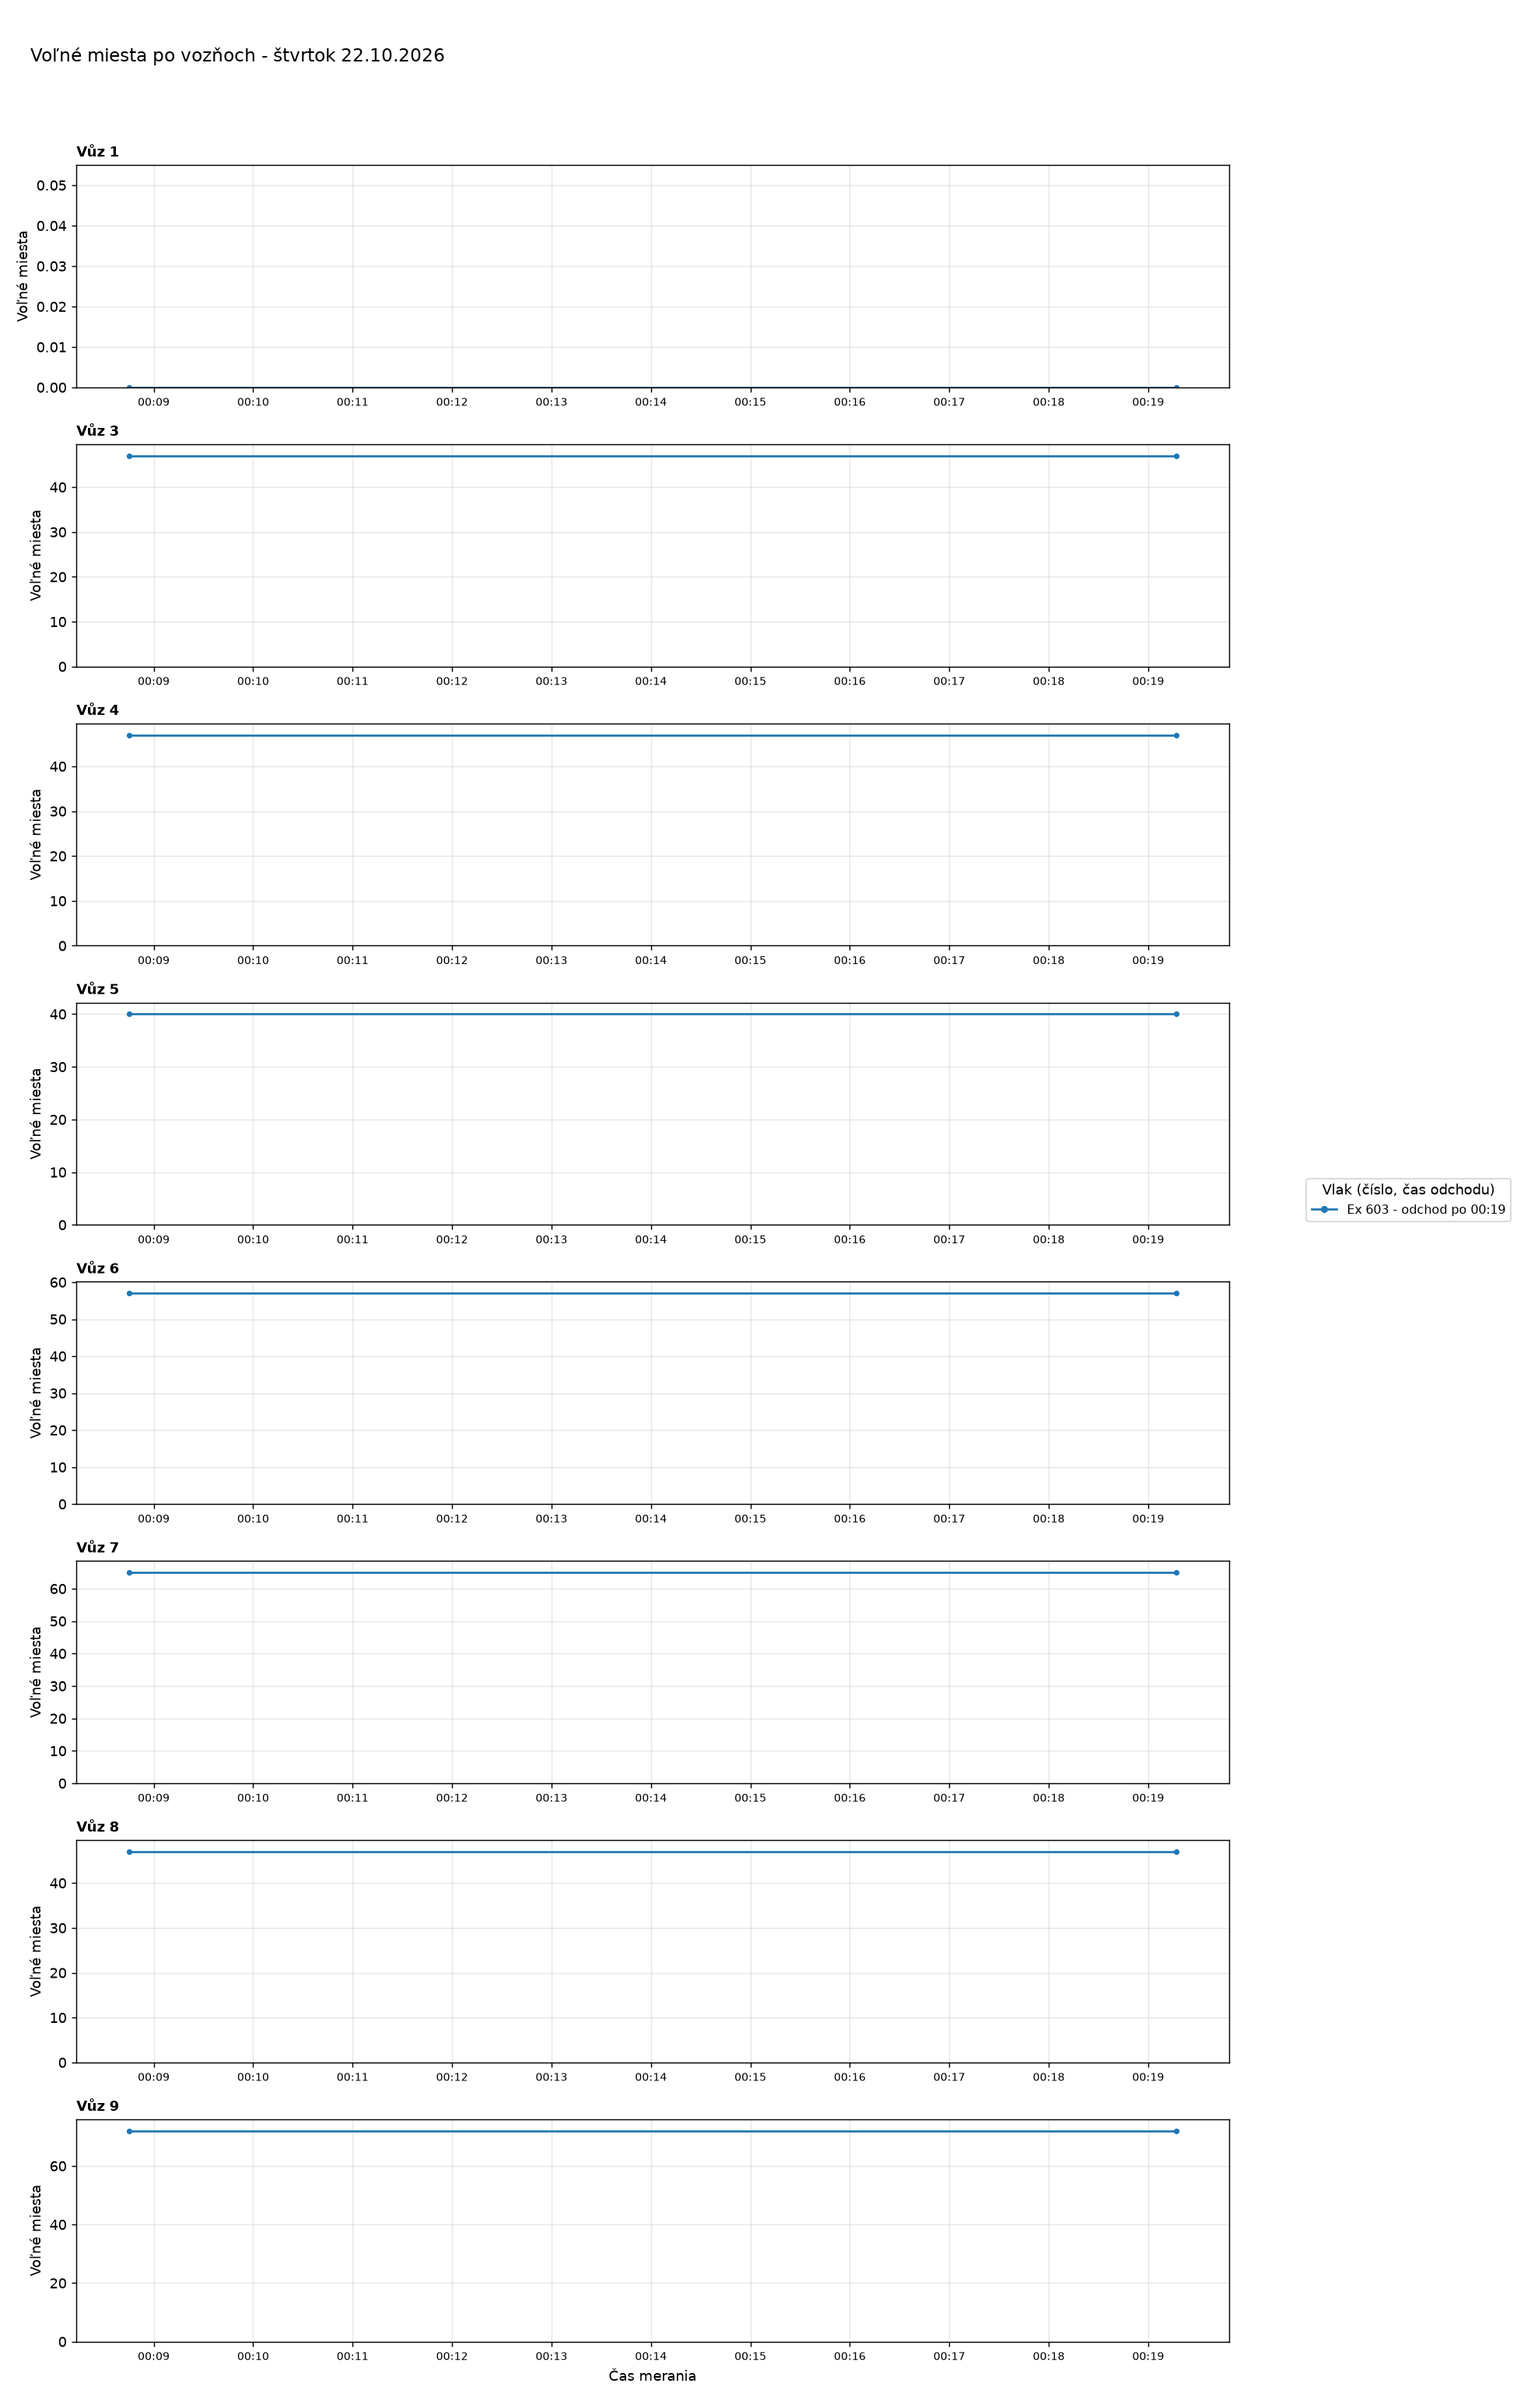
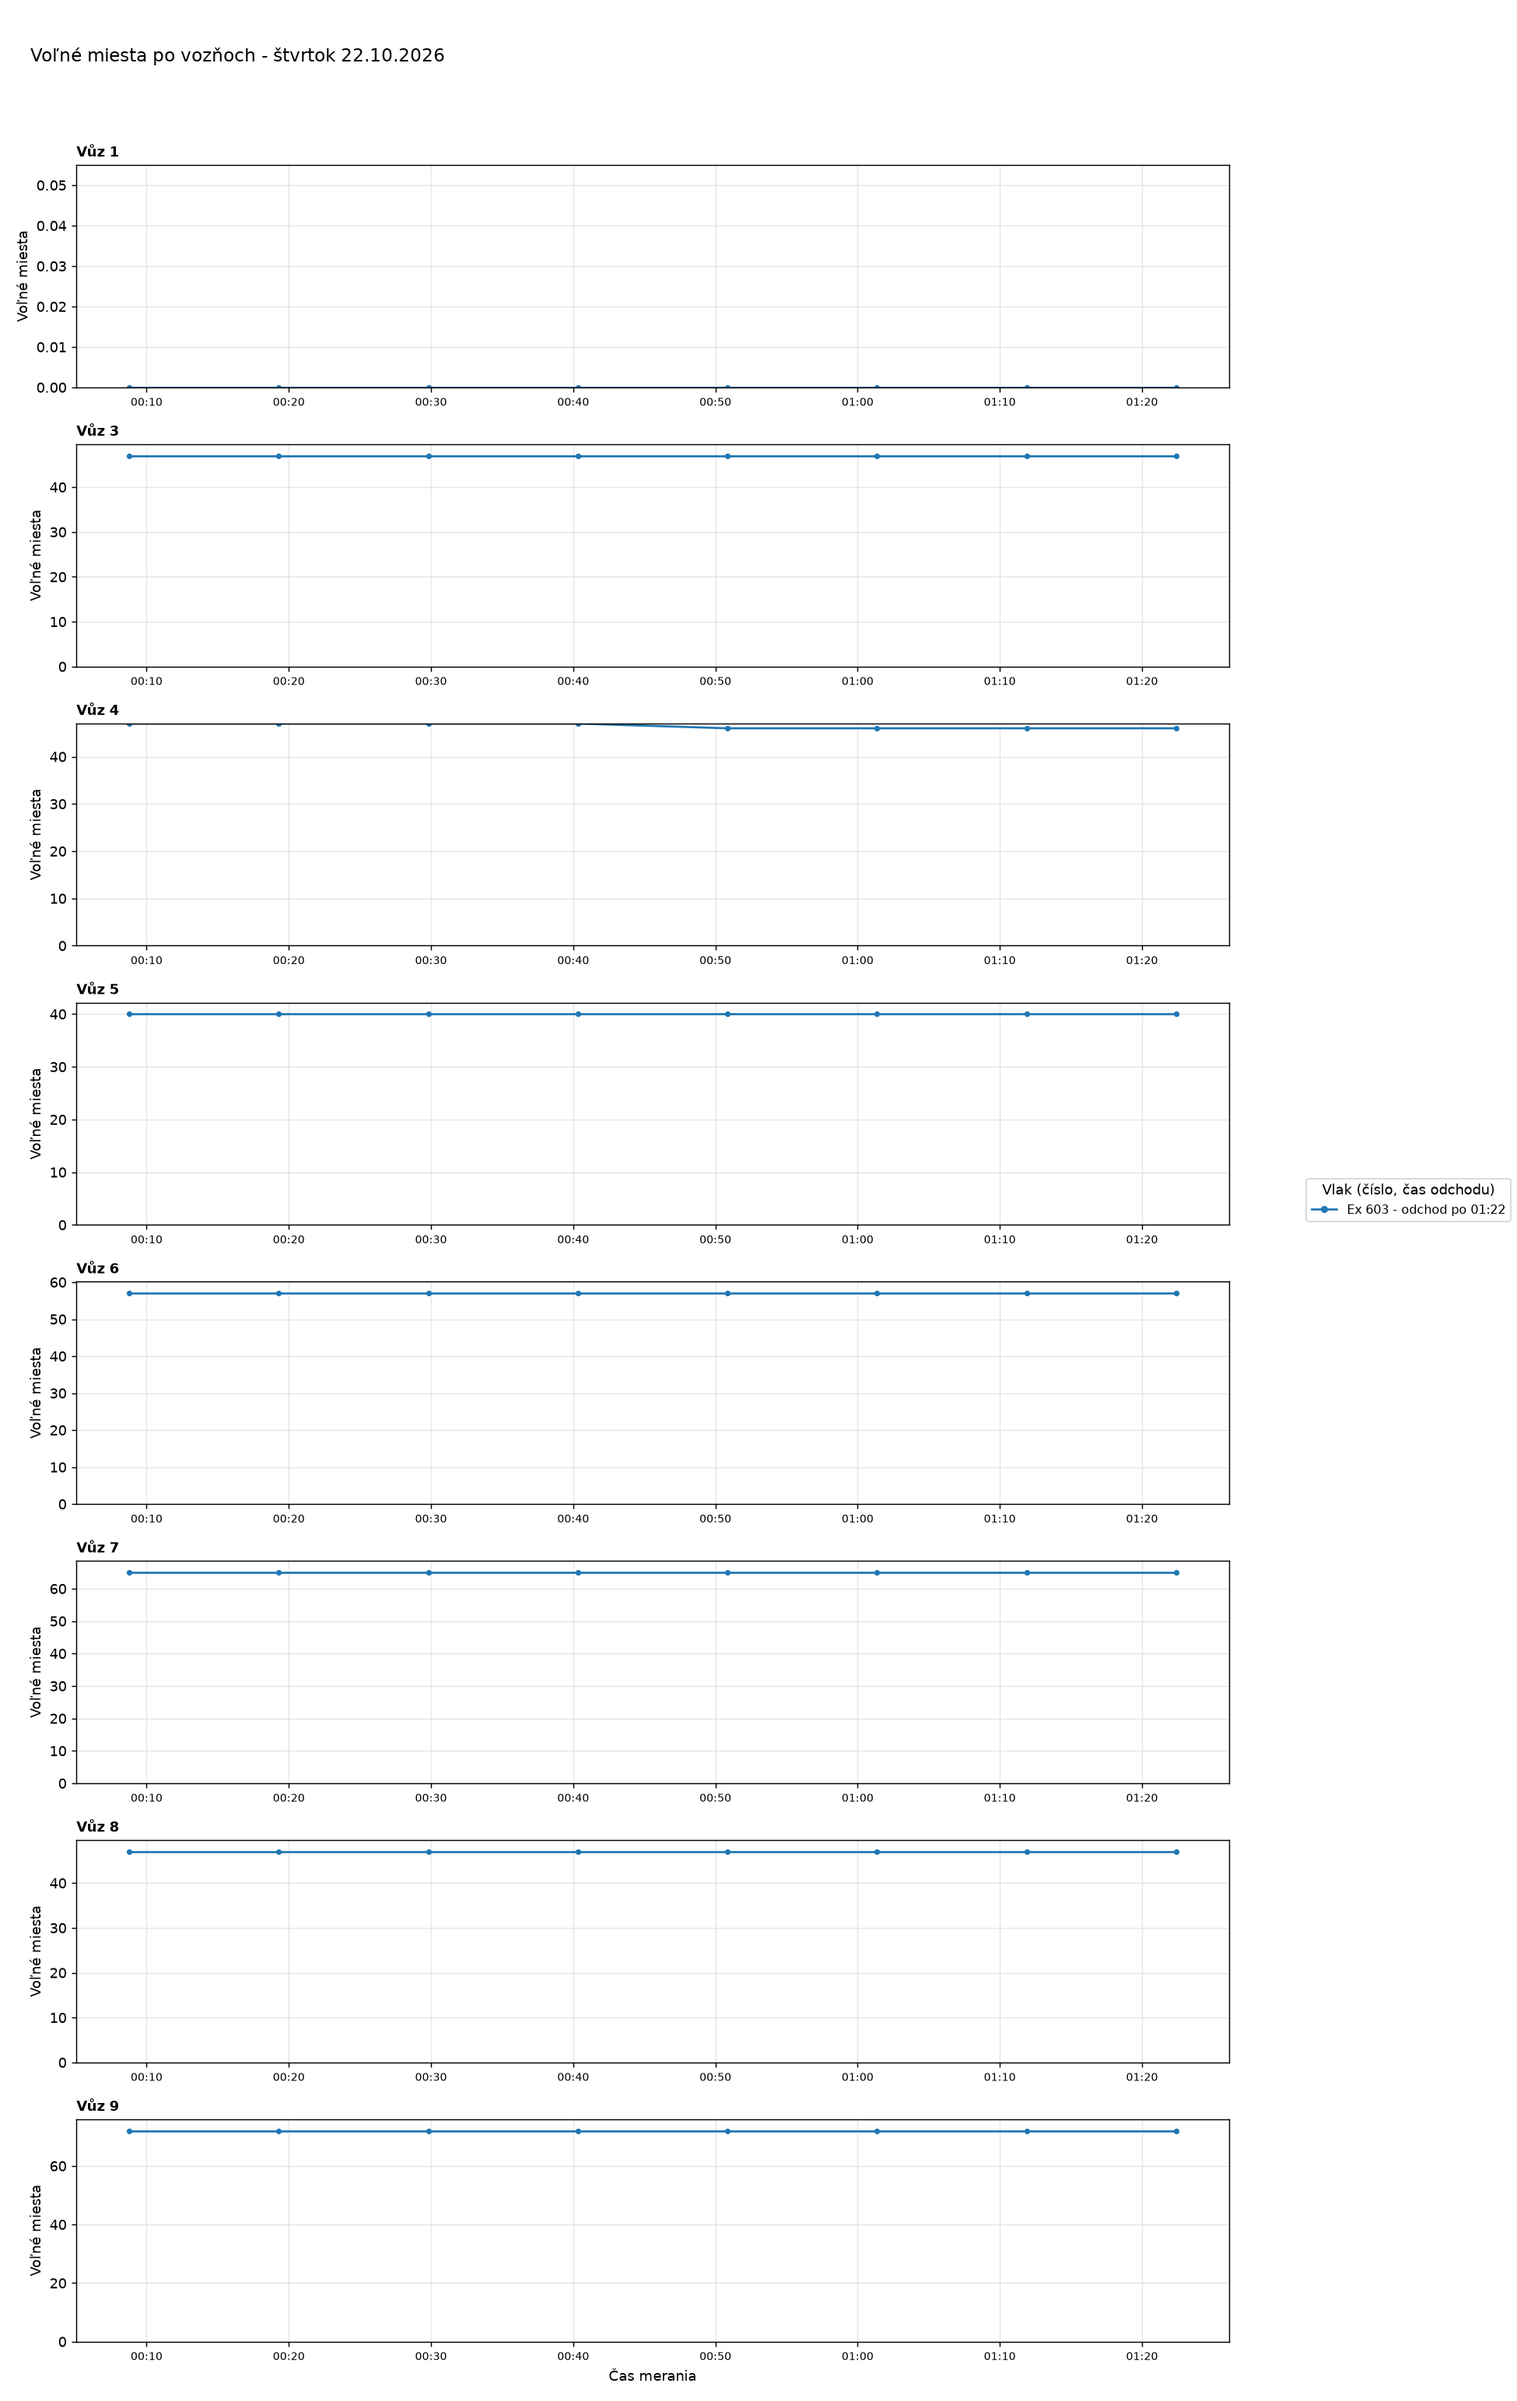
Aktualizácia grafov 2026-10-22 01:25

diff --git a/index.html b/index.html
@@ -30,7 +30,7 @@ img{display:block;width:100%;height:auto;background:#fff;border-radius:6px;
 <body>
 <main>
 <h1>Voľné miesta vo vlakoch</h1>
-<p class="muted">Posledné meranie: 22.10.2026 00:19 ·
+<p class="muted">Posledné meranie: 22.10.2026 01:22 ·
 <a href="data/obsadenost_data.csv">stiahnuť dáta (CSV)</a></p>
 
 <section class="card">
@@ -38,7 +38,7 @@ img{display:block;width:100%;height:auto;background:#fff;border-radius:6px;
 <div class="tablewrap"><table>
 <thead><tr><th>Deň</th><th>Meraní</th><th>Vlakov</th><th>Čas meraní</th></tr></thead>
 <tbody>
-<tr><td><a href="#d2026-10-22">štvrtok 22.10.2026</a></td><td>2</td><td>1</td><td>00:08-00:19</td></tr>
+<tr><td><a href="#d2026-10-22">štvrtok 22.10.2026</a></td><td>8</td><td>1</td><td>00:08-01:22</td></tr>
 <tr><td><a href="#d2026-10-21">streda 21.10.2026</a></td><td>96</td><td>15</td><td>00:10-23:58</td></tr>
 <tr><td><a href="#d2026-10-20">utorok 20.10.2026</a></td><td>34</td><td>7</td><td>13:55-23:50</td></tr>
 </tbody></table></div>
